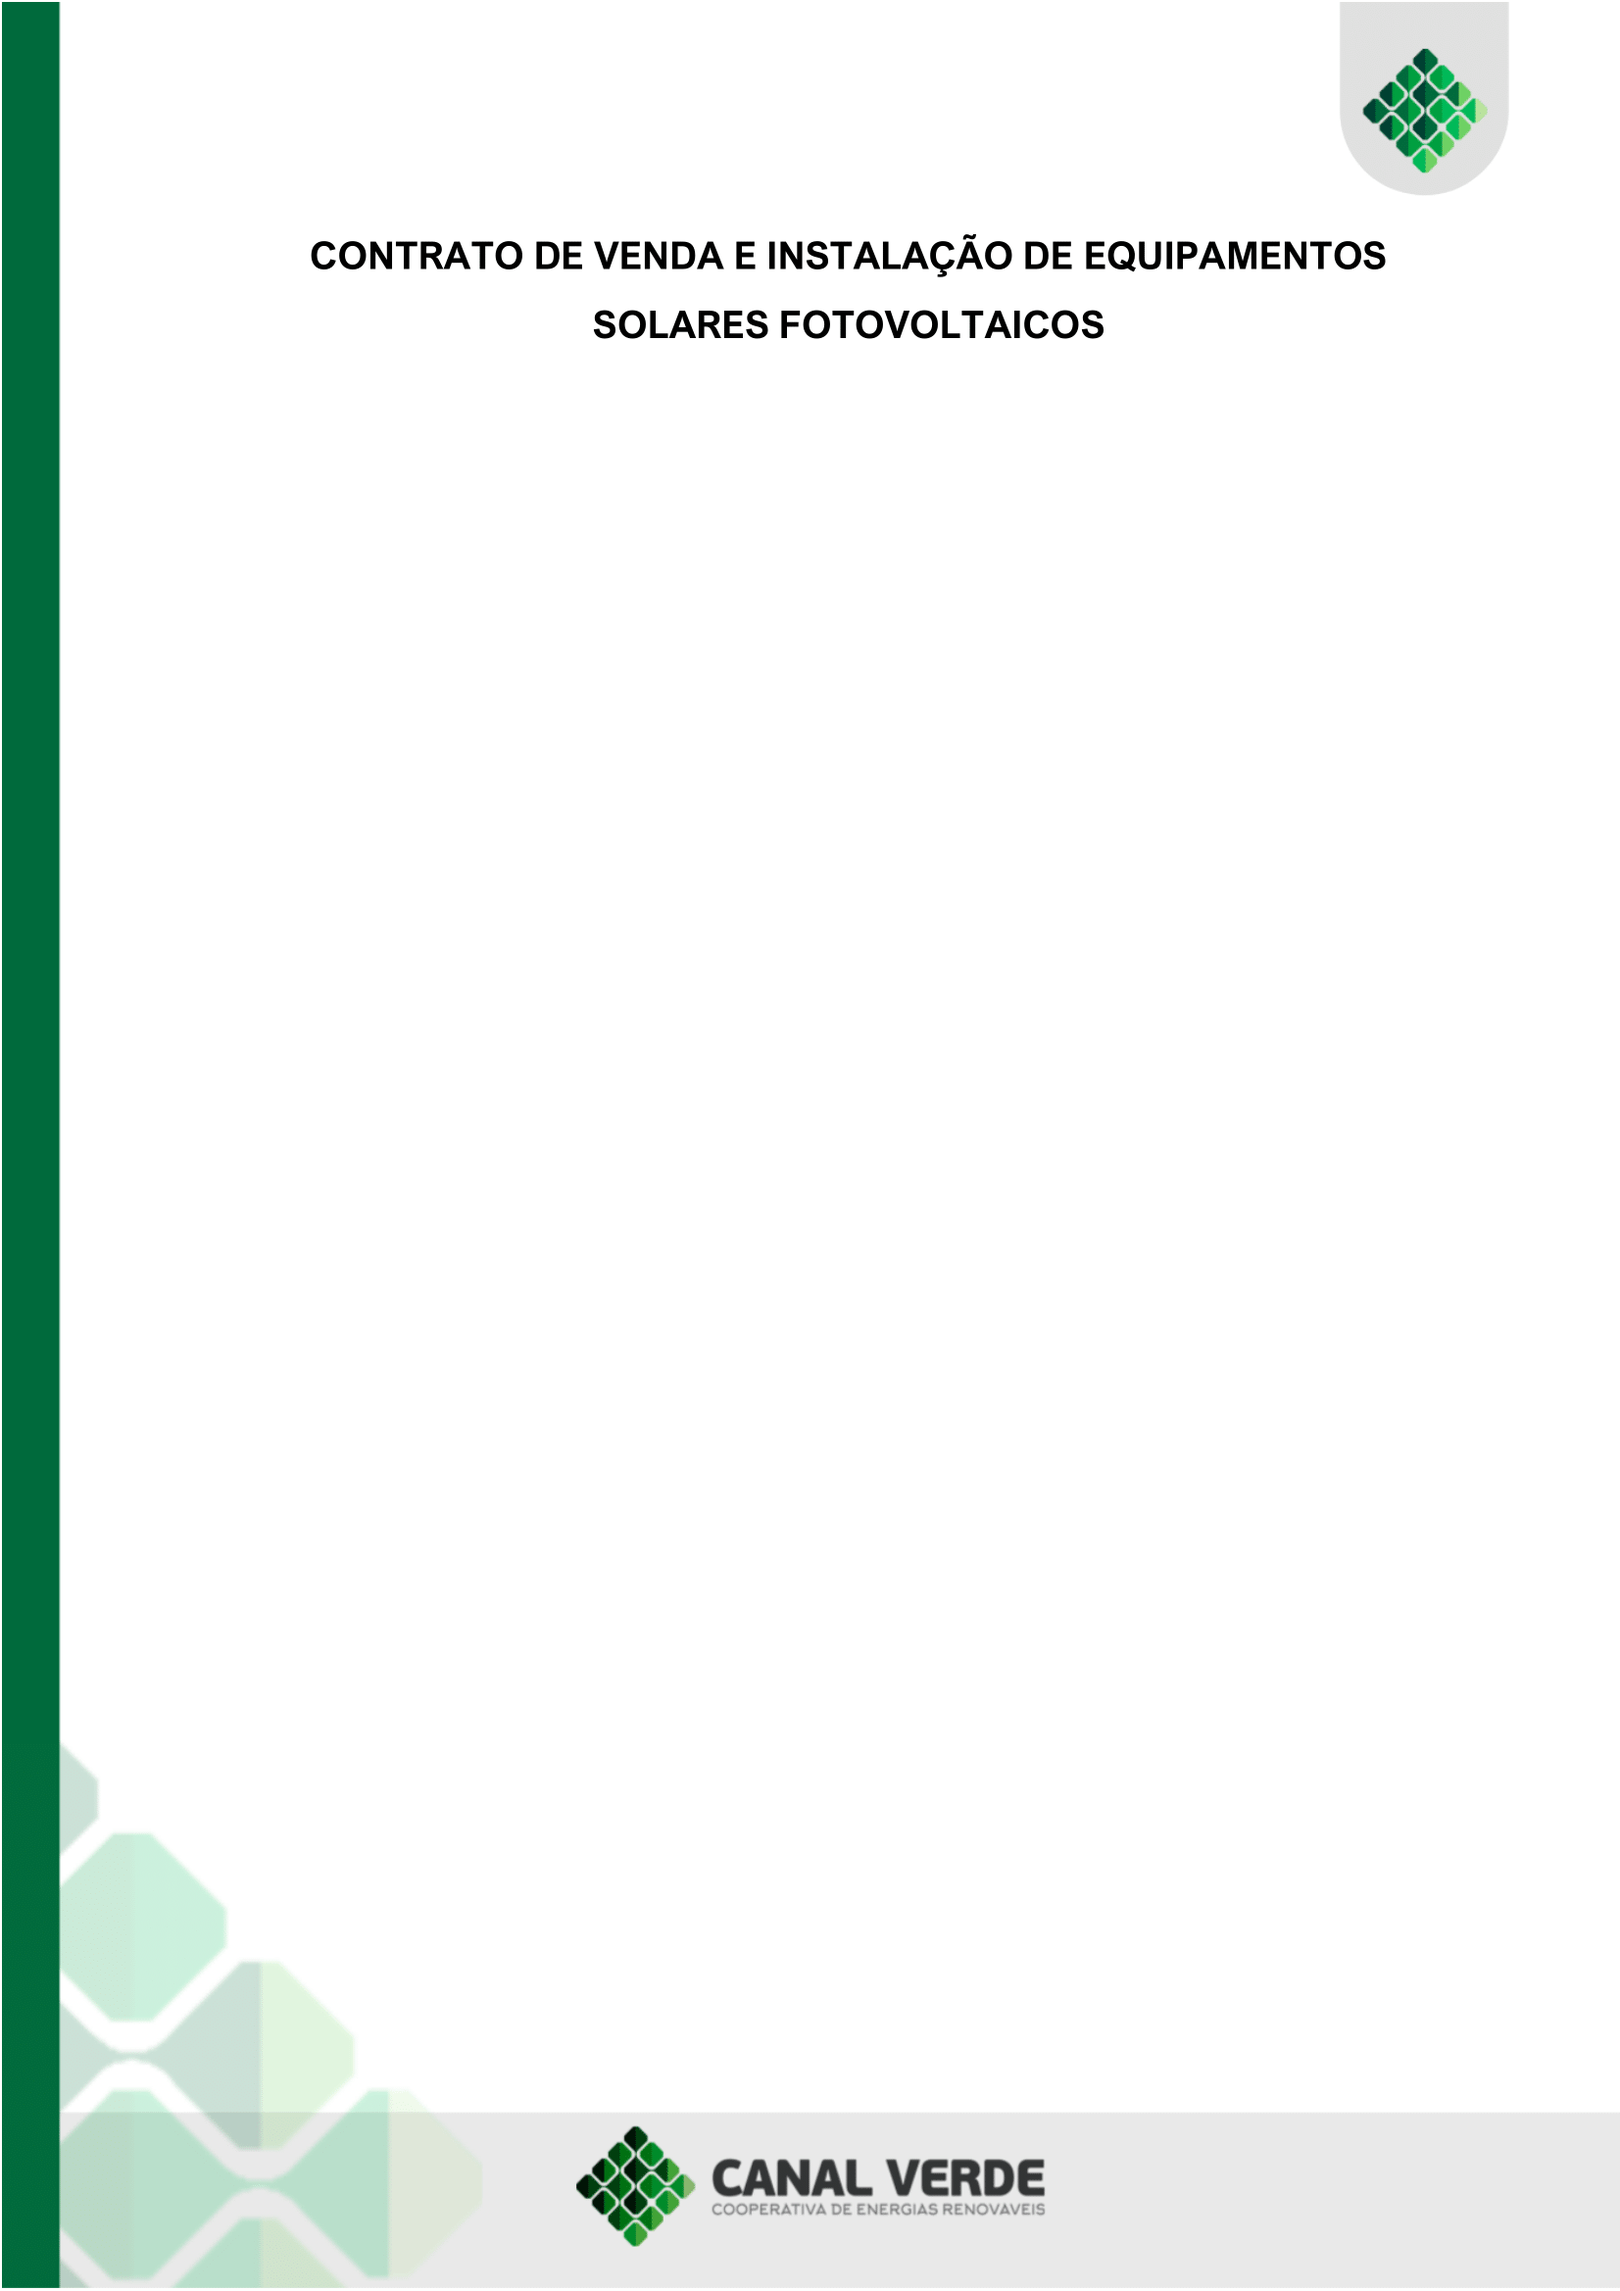
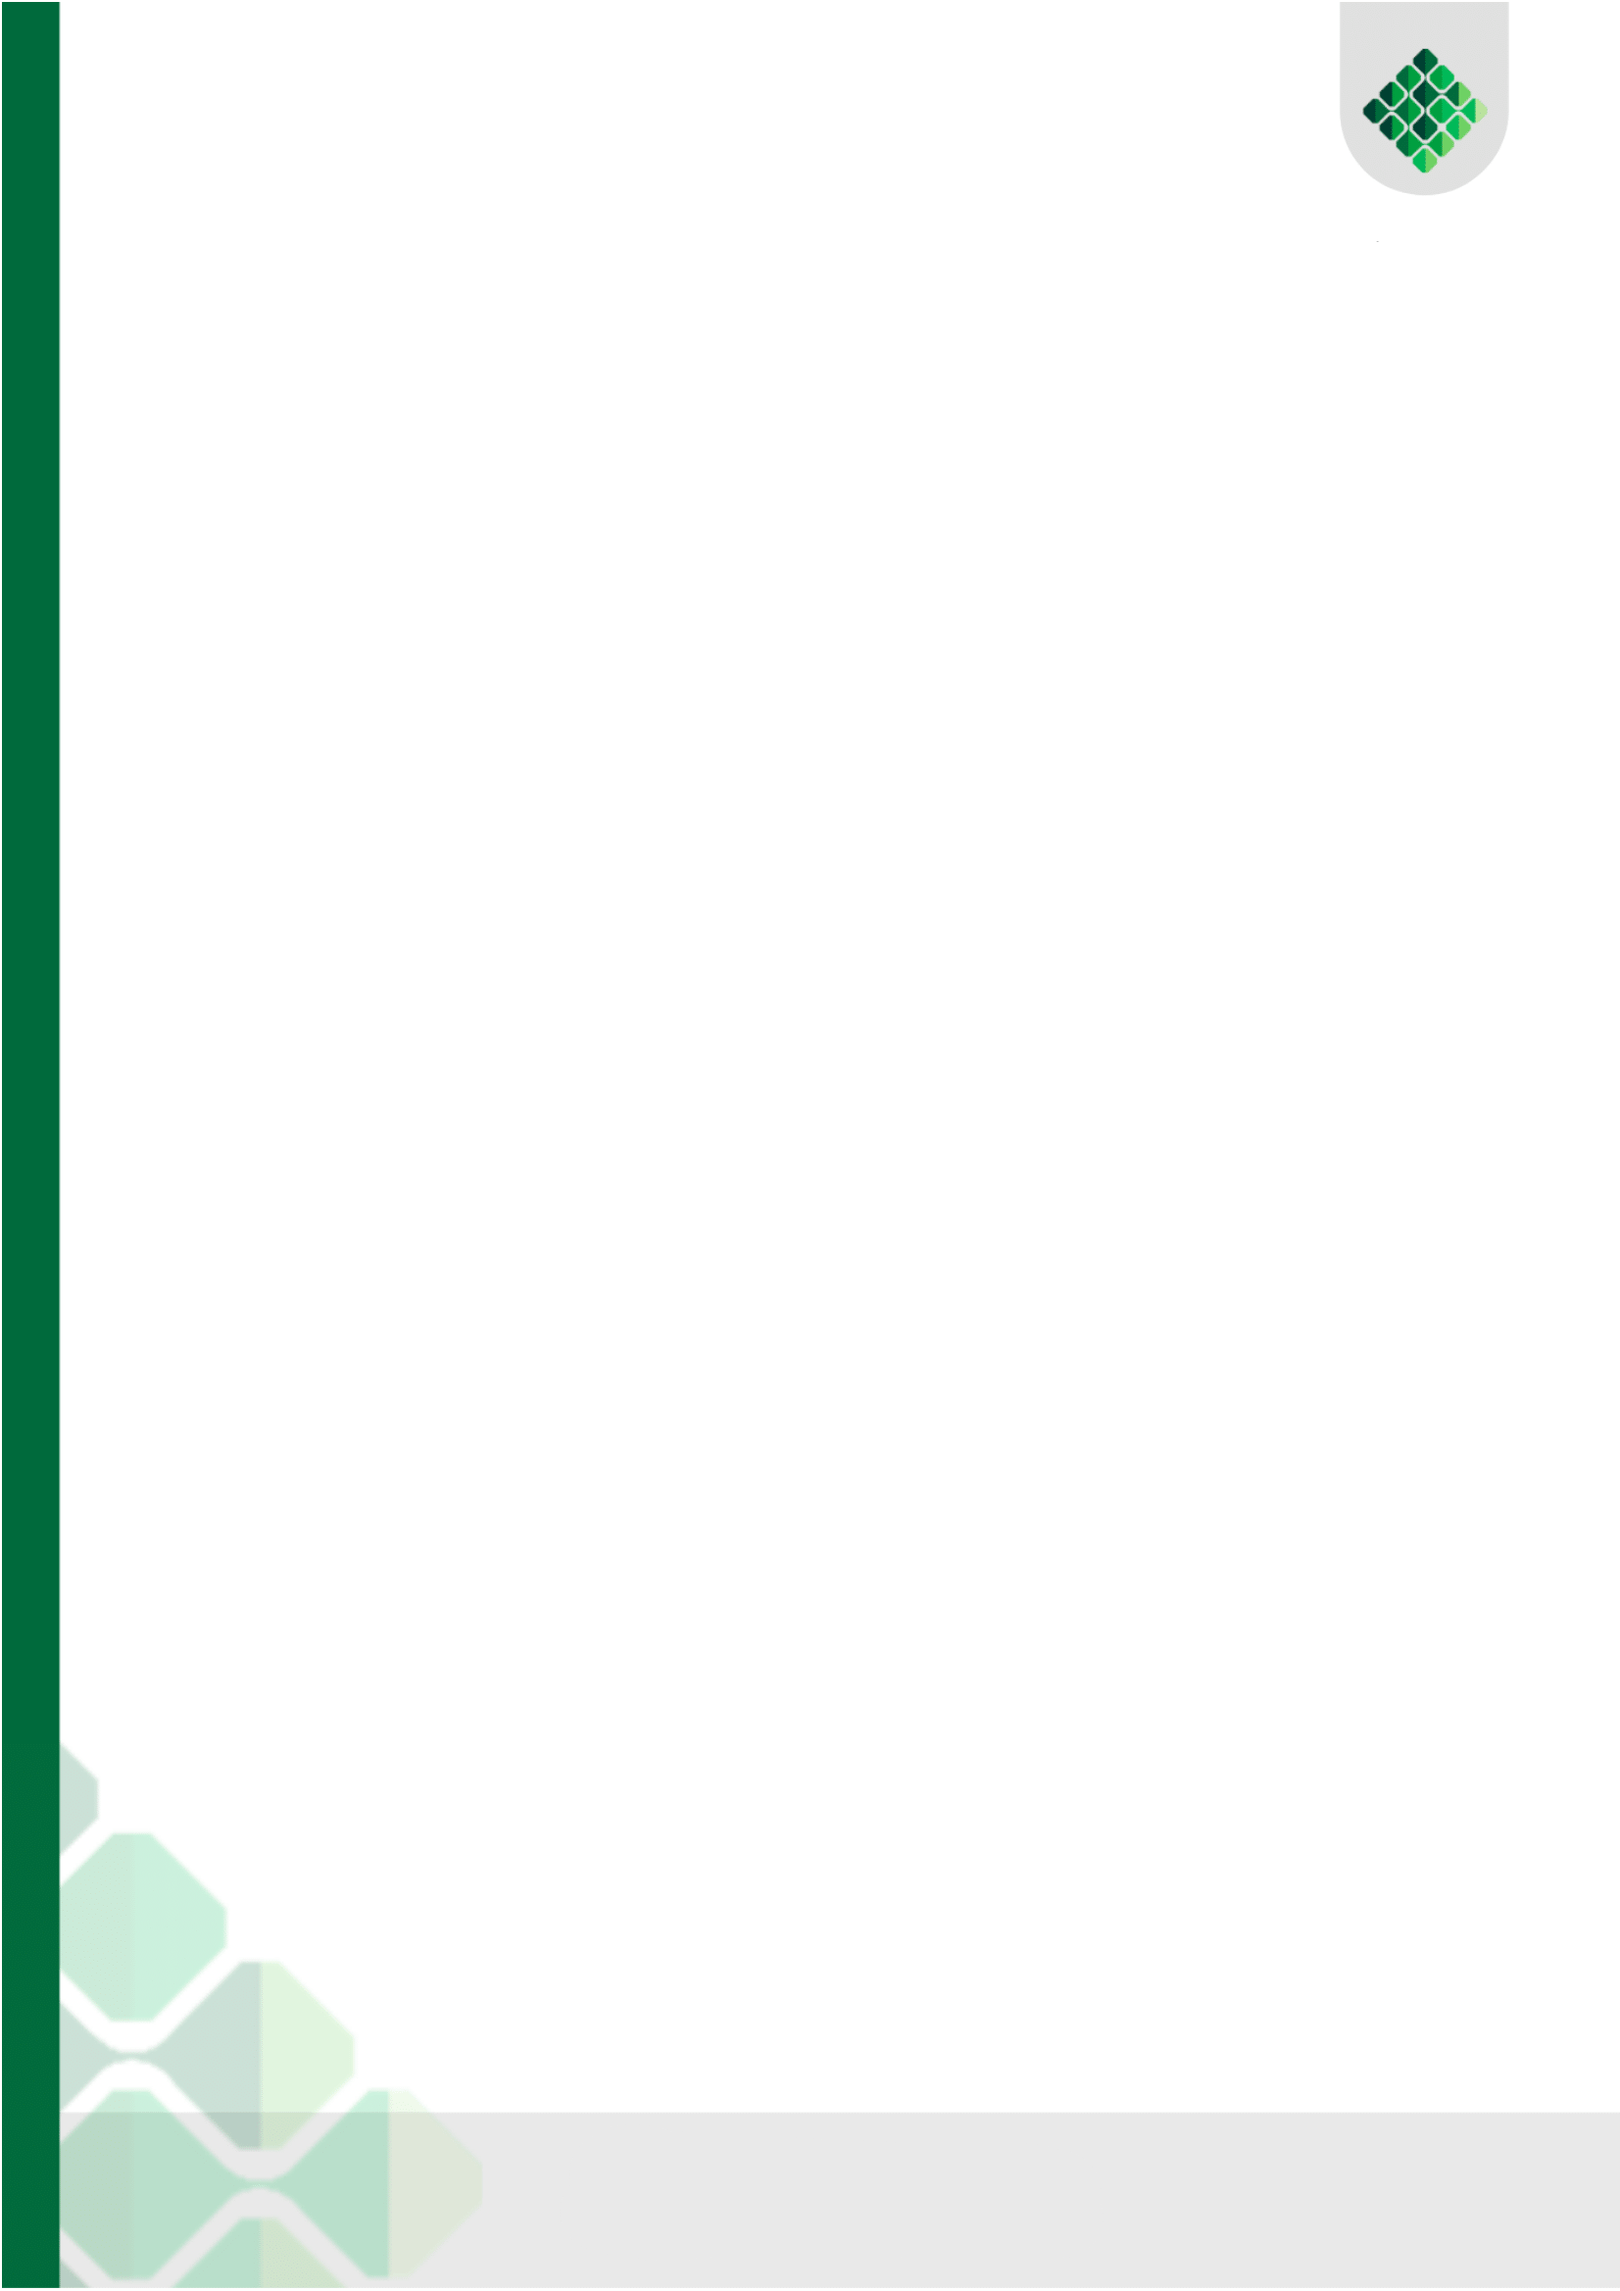
Falta formas de pagamento e detecção de estado

Changed region(s): [[0.1851, 0.0937, 0.8639, 0.1561], [0.3394, 0.9055, 0.6479, 0.9991]]

diff --git a/gerar_contrato_usinas.php b/gerar_contrato_usinas.php
@@ -58,13 +58,11 @@ if ($_SERVER["REQUEST_METHOD"] == "POST") {
     $pdf->setCellPaddings(0, 0, 0, 0); // Remove quaisquer preenchimentos extras
     $pdf->setPrintHeader(true);
     $pdf->setPrintFooter(false);
-    $pdf->SetMargins(15, 20, 15); // Margens esquerda, superior e direita
+    $pdf->SetMargins(15, 70, 15); // Margens esquerda, superior e direita
     $pdf->SetAutoPageBreak(TRUE, 20); // Quebra automática com 20 unidades na margem inferior
-
 
     // Primeira Página (com a imagem undo.jpeg)
     $pdf->AddPage();  // Adiciona a primeira página
-
 
     // Definir fonte e adicionar conteúdo à primeira página
     $pdf->SetFont('helvetica', 16);
@@ -100,7 +98,7 @@ if ($_SERVER["REQUEST_METHOD"] == "POST") {
     // Conteúdo HTML
     $htmlContent = '
 
-    <p>CONTRATO DE VENDA E INSTALAÇÃO DE EQUIPAMENTOS SOLARES FOTOVOLTAICOS</p>
+
 
     <p>Por este instrumento,</p>
     <p><strong>PALLADIUM IMPORTADORA DE EQUIPAMENTOS LTDA</strong>, pessoa jurídica de direito privado, inscrita no CNPJ sob o n.º 49.348.620/0001-05, com sede na Av. Colombo, n.º 5088, zona 07, na cidade de Maringá/PR - CEP 87.030-121, representada neste ato por seu representante legal, doravante denominada “DISTRIBUIDORA”.</p>
@@ -276,7 +274,7 @@ if ($_SERVER["REQUEST_METHOD"] == "POST") {
 
 ';
 
-    $pdf->writeHTMLCell(0, 0, 15, 15, $htmlContent, 0, 1, 0, true, 'J', true);
+    $pdf->writeHTMLCell(0, 0, 15, 40, $htmlContent, 0, 1, 0, true, 'J', true);
 
 
     $pdf->Output('arquivo_gerado.pdf', 'I');  // 'I' para exibir no navegador
